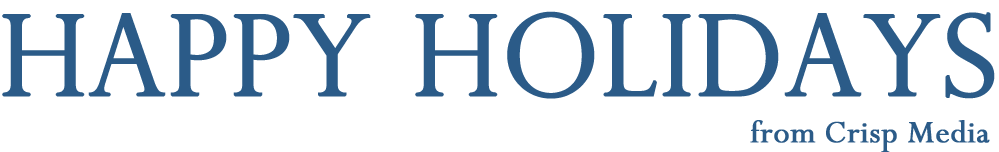
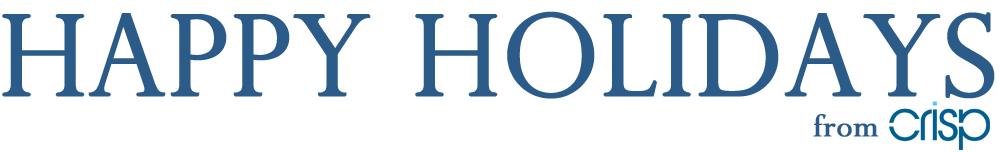
Marketed It Up

Changed region(s): [[0.7447, 0.7105, 0.993, 1.0], [0.9309, 0.6579, 0.962, 0.6842]]

diff --git a/css/styles.css b/css/styles.css
@@ -1,3 +1,33 @@
+/* Media Queries */
+
+
+
+/* Smartphones (portrait and landscape) ----------- */
+@media only screen 
+and (min-device-width : 320px) 
+and (max-device-width : 480px) {
+
+    body{
+        background: black;
+    }
+
+}
+
+/* iPads (portrait and landscape) ----------- */
+@media only screen 
+and (min-device-width : 768px) 
+and (max-device-width : 1024px) {
+
+    body{
+        background: blue;
+    }
+
+}
+
+
+
+
+
 * {
     margin: 0;
     padding: 0;
@@ -140,6 +170,10 @@ a {
 #header{
     top: 60px;
     position: absolute;
+    background-image: url('../images/header.png');
+    background-repeat: no-repeat;
+    height: 152px;
+    width: 999px;
 }
 
 #subHead{
@@ -391,9 +425,10 @@ body {
     background-color: #2b5b88;
 }
 
+
+
+
 /* Animations */
-
-
 
 /*Keyframes*/
 

diff --git a/index.html b/index.html
@@ -6,10 +6,9 @@
 <html class="no-js"> <!--<![endif]-->
     <head>
         <meta charset="utf-8">
-        <meta http-equiv="X-UA-Compatible" content="IE=edge">
+        <meta name="viewport" content="width=device-width" />
         <title>Happy Holidays from Crisp Media</title>
-        <meta name="description" content="">
-        <meta name="viewport" content="width=device-width, initial-scale=1">
+
         <link rel="stylesheet" href="css/styles.css">
     </head>
     <body>
@@ -27,9 +26,7 @@
     <div id="snowLayer"></div>
     <div id="reef"></div>
     <div id="fog"></div>
-    <div id="header">
-        <img src="images/header.png">
-    </div>
+    <div id="header"></div>
 
     <div id="walking"></div>
 
